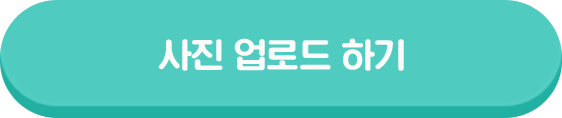
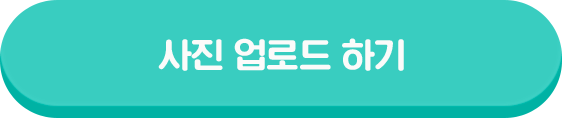
#210527 : 스텝 1 버튼 이미지 변경

Changed region(s): [[0.0, 0.5085, 0.9982, 1.0], [0.9982, 0.4576, 1.0, 0.5593]]

diff --git a/apps/css/style.css b/apps/css/style.css
@@ -63,7 +63,7 @@
 
 .content {position:relative}
 
-/* 메인 컨텐츠1 */ 
+/* 메인 컨텐츠1 */
 .cont1 {overflow:hidden;clear:both;width:100%;height:85.6rem;background:url(../imgs/cont1-bg.png) bottom center no-repeat;background-size:192rem}
 .cont1 .cont_head {padding-top:7.4rem}
 .cont1 .cont_head .ico-cloud {display:block;width:13.2rem;height:6.3rem;margin:0 auto 3rem;background:url(../imgs/cont1-obj-cloud.png) 50% 50% no-repeat;background-size:13.2rem}
@@ -74,7 +74,7 @@
 .cont1 .evt_info .ico-heart {display:block;position:absolute;bottom:-16rem;left:calc(50% - 28.9rem);width:11.1rem;height:9.5rem;background:url(../imgs/cont1-obj-heart.png) 50% 50% no-repeat;background-size:11.1rem}
 .cont1 .evt_info .steps {overflow:hidden;width:100%;height:26rem;font-size:0;text-indent:-9999px;background:url(../imgs/cont1-steps.png) top center no-repeat;background-size:67rem}
 
-/* 메인 컨텐츠2 */ 
+/* 메인 컨텐츠2 */
 .cont2 {position:relative;width:100%;height:129.8rem;background:#ebf9f8 url(../imgs/cont2-bg.png) bottom center no-repeat;background-size:192rem}
 .cont2 .cont_head {position:relative;z-index:10;margin-bottom:7.4rem;padding-top:0}
 .cont2 .cont_head .ico-cloud {display:block;width:12.9rem;height:6.1rem;margin:0 auto 3rem;background:url(../imgs/cont2-obj-cloud.png) 50% 50% no-repeat;background-size:12.9rem}
@@ -112,7 +112,7 @@
 .scrollrange.swiper-pagination-progressbar {display:block;position:absolute;bottom:6rem;left:50%;width:42.8rem;height:.7rem;margin-left:-21.4rem;border-radius:.35rem;background-color:#aaddda}
 .scrollrange.swiper-pagination-progressbar .swiper-pagination-progressbar-fill:after {content:"";display:block;transform:scaleX(1) !important;position:absolute;top:-1.6rem;right:0;width:3.8rem;height:3.8rem;border-radius:100%;font-size:0;text-indent:-9999px;box-shadow:2px 0px 20px rgba(47, 105, 101, 27%);background-color:#fff}
 
-/* 메인 컨텐츠3 */ 
+/* 메인 컨텐츠3 */
 .cont3 {overflow:hidden;clear:both;width:100%;background:url(../imgs/cont3-bg.png) bottom center no-repeat;background-size:192rem}
 .cont3 .cont_head .ico-cloud {display:block;width:13.2rem;height:6.3rem;margin:0 auto 3rem;background:url(../imgs/cont1-obj-cloud.png) 50% 50% no-repeat;background-size:13.2rem}
 .cont3 .cont_head .tx_tit {display:block;width:60.8rem;height:5.4rem;margin:0 auto 6.6rem;font-size:0;text-indent:-9999px;background:url(../imgs/cont3-tit.png) 50% 50% no-repeat;background-size:60.8rem}
@@ -123,12 +123,15 @@
 .cont3 .cont_body .tx_tit {font-weight:100;font-size:2.8rem;letter-spacing:-1px;line-height:4.9rem;color:#2aaaa4;}
 .cont3 .cont_body .tx_tit strong {font-weight:400;font-size:3.6rem}
 
-/* 메인 컨텐츠4 */ 
+/* 메인 컨텐츠4 */
 .cont4 {width:100%;background:#62c441}
 .cont4 .evt_notice {padding:3.6rem 6.4rem 10rem}
 .cont4 .evt_notice .note_tit {position:relative;margin-bottom:2.8rem;padding-left:4.4rem;font-weight:200;font-size:3.5rem;line-height:4.1rem;color:#9fe986}
 .cont4 .evt_notice .note_tit:before {content:"";position:absolute;top:.5rem;left:0;width:3.3rem;height:3.3rem;background:url(../imgs/ico-i.png) 50% 50% no-repeat;background-size:3.3rem}
-.cont4 .evt_notice .note_list ul li {display:block;font-size:2.5rem;font-weight:100;color:#a9eb95;letter-spacing:-.4px;line-height:5.2rem}
+.cont4 .evt_notice .note_list ul li {display:block;position:relative;padding-left:1.5rem;font-size:2rem;font-weight:100;color:#a9eb95;letter-spacing:-.4px;line-height:3.2rem;word-break:keep-all}
+.cont4 .evt_notice .note_list ul li:before {content:"-";position:absolute;left:0;font-size:2rem;font-weight:100;color:#a9eb95;letter-spacing:-.4px;line-height:3.2rem;}
+.cont4 .evt_notice .note_list ul li a {color:#a9eb95;}
+.cont4 .evt_notice .note_list ul li a:hover {text-underline-position:under;}
 
 
 
@@ -183,10 +186,10 @@
 .subcont_body .btn-group {width:62rem;margin:6.4rem auto}
 .subcont_body .btn-group:after {content:"";display:table;clear:both}
 .subcont_body .btn-step {display:block;font-size:0;text-indent:-9999px;}
-.subcont_body .btn-step-upload {float:left;width:29.2rem;height:11.8rem}
-.subcont_body .btn-step-upload label {display:block;width:100%;height:100%;font-size:0;text-indent:-9999px;background:url(../imgs/btn-back.png) 50% 50% no-repeat;background-size:29.2rem;cursor:pointer}
+.subcont_body .btn-step-upload {width:56.2rem;height:11.8rem;margin:0 auto 1.4rem}
+.subcont_body .btn-step-upload label {display:block;width:100%;height:100%;font-size:0;text-indent:-9999px;background:url(../imgs/btn-upload.png) 50% 50% no-repeat;background-size:56.2rem;cursor:pointer}
 .subcont_body .btn-step-upload label + input[type="file"] {position:absolute;width:1px;height:1px;padding:0;margin:-1px;overflow:hidden;clip:rect(0,0,0,0);border:0}
-.subcont_body .btn-step-next {float:right;width:29.2rem;height:11.8rem;background:url(../imgs/btn-back.png) 50% 50% no-repeat;background-size:29.2rem}
+.subcont_body .btn-step-next {width:56.2rem;height:11.8rem;margin:0 auto;background:url(../imgs/btn-next.png) 50% 50% no-repeat;background-size:56.2rem}
 .subcont_body .btn-step-back {float:left;width:29.2rem;height:11.8rem;background:url(../imgs/btn-back.png) 50% 50% no-repeat;background-size:29.2rem}
 .subcont_body .btn-step-comp {float:right;width:29.2rem;height:11.8rem;background:url(../imgs/btn-comp.png) 50% 50% no-repeat;background-size:29.2rem}
 .subcont_body .btn-step-buy {float:right;width:29.2rem;height:11.8rem;background:url(../imgs/btn-buy.png) 50% 50% no-repeat;background-size:29.2rem}
@@ -265,11 +268,15 @@
 .evtjoin_info .info__list > li:before {content:"";display:block;position:absolute;top:.1rem;left:0;width:4.4rem;height:5rem;background:url(../imgs/ico-chkbox.png) 50% 50% no-repeat;background-size:4.4rem}
 .evtjoin_info .info__list > li strong {font-weight:400}
 .evtjoin_info .info__list > li .tx_noti {display:block;margin-top:1rem;font-weight:100;font-size:1.8rem;line-height:2.6rem}
+.evtjoin_info .info__list > li .tx_noti a {color:#67685a}
 
 .subcont3 .evt_notice {padding:5rem 6.4rem;}
 .subcont3 .evt_notice .note_tit {position:relative;margin-bottom:3.2rem;padding-left:4.4rem;font-weight:200;font-size:3.5rem;line-height:4.1rem;color:#dadad9}
 .subcont3 .evt_notice .note_tit:before {content:"";position:absolute;top:.5rem;left:0;width:3.3rem;height:3.3rem;background:url(../imgs/ico-i-gray.png) 50% 50% no-repeat;background-size:3.3rem}
-.subcont3 .evt_notice .note_list ul li {display:block;font-size:2.5rem;font-weight:100;color:#c6c5c4;letter-spacing:-.4px;line-height:4.2rem}
+.subcont3 .evt_notice .note_list ul li {display:block;position:relative;padding-left:1.5rem;font-size:2.5rem;font-weight:100;color:#c6c5c4;letter-spacing:-.4px;line-height:4.2rem}
+.subcont3 .evt_notice .note_list ul li:before {content:"-";position:absolute;left:0;font-size:2.5rem;font-weight:100;color:#c6c5c4;letter-spacing:-.4px;line-height:4.2rem}
+.subcont3 .evt_notice .note_list ul li a {color:#c6c5c4;}
+.subcont3 .evt_notice .note_list ul li a:hover {text-underline-position:under;}
 
 /* 엔딩 */
 .container--end {display:block;width:192rem;height:175.3rem;background:url(../imgs/end-bg.png) top center no-repeat;background-size:192rem}
@@ -326,23 +333,23 @@
 .lay-note .lay-body .btn-next {display:block;position:relative;width:64.4rem;height:30.2rem;margin:0 auto;font-size:0;text-indent:-9999px;background:url(../imgs/lay-note-btn.png) top center;background-size:64.4rem}
 .lay-note .lay-body .btn-next .btn-link {display:block;position:absolute;top:3.2rem;left:3.9rem;width:56.2rem;height:11.8rem;}
 
-@media (max-width:750px){ 
+@media (max-width:750px){
     html {font-size:8px}
     .visual *,
     .container--end * {transition:all .05s ease-in-out !important;transition-delay:0s}
 }
-@media (max-width:720px){ 
+@media (max-width:720px){
     html {font-size:7px}
 }
-@media (max-width:640px){ 
+@media (max-width:640px){
     html {font-size:6px}
 }
-@media (max-width:480px){ 
+@media (max-width:480px){
     html {font-size:5px}
 }
-@media (max-width:360px){ 
+@media (max-width:360px){
     html {font-size:5px}
 }
-@media (max-width:320px){ 
+@media (max-width:320px){
     html {font-size:4px}
 }
